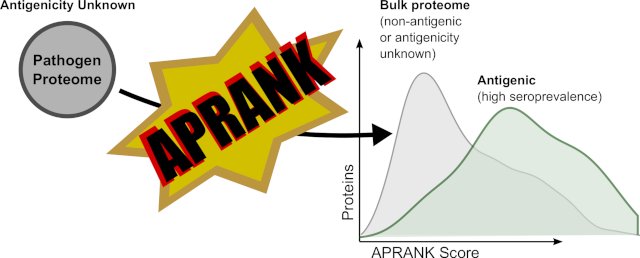
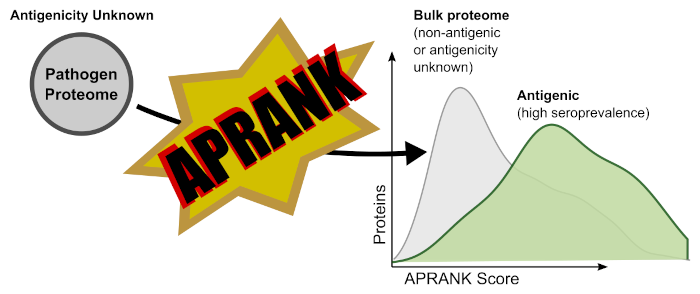
fix image, add border
Add border to graphical abstract so that it does not look bad in dark mode

Changed region(s): [[0.0, 0.0, 1.0, 1.0], [0.625, 0.2791, 0.6875, 0.4341]]

diff --git a/content/publication/2021-ricci-aprank-frontiers/index.md b/content/publication/2021-ricci-aprank-frontiers/index.md
@@ -24,7 +24,7 @@ abstract: "The long and boring but academically correct abstract is available at
 # Summary. An optional shortened abstract.
 summary: "APRANK takes a pathogen proteome as input, and provides a ranked list of the _best_ candidate antigens and epitopes."
 
-tags: ["antigens", "predictors", "epitopes", "antigenicity", "proteins", "peptides", "diagnostics", "biomarkers"]
+tags: ["antigens", "predictors", "epitopes", "antigenicity", "proteins", "peptides", "diagnostics", "biomarkers", "human pathogens"]
 categories: ["Predictors"]
 featured: false
 
@@ -45,15 +45,14 @@ links:
   url: https://doi.org/10.5281/zenodo.4939160
 
 
-
-url_pdf:
-url_code:
-url_dataset:
-url_poster:
-url_project:
-url_slides:
-url_source:
-url_video:
+#url_pdf:
+#url_code:
+#url_dataset:
+#url_poster:
+#url_project:
+#url_slides:
+#url_source:
+#url_video:
 
 # Featured image
 # To use, add an image named `featured.jpg/png` to your page's folder. 
@@ -75,7 +74,7 @@ projects: ["immunomics"]
 #   Simply enter your slide deck's filename without extension.
 #   E.g. `slides: "example"` references `content/slides/example/index.md`.
 #   Otherwise, set `slides: ""`.
-slides: ""
+#slides: ""
 ---
 
 &nbsp;  
